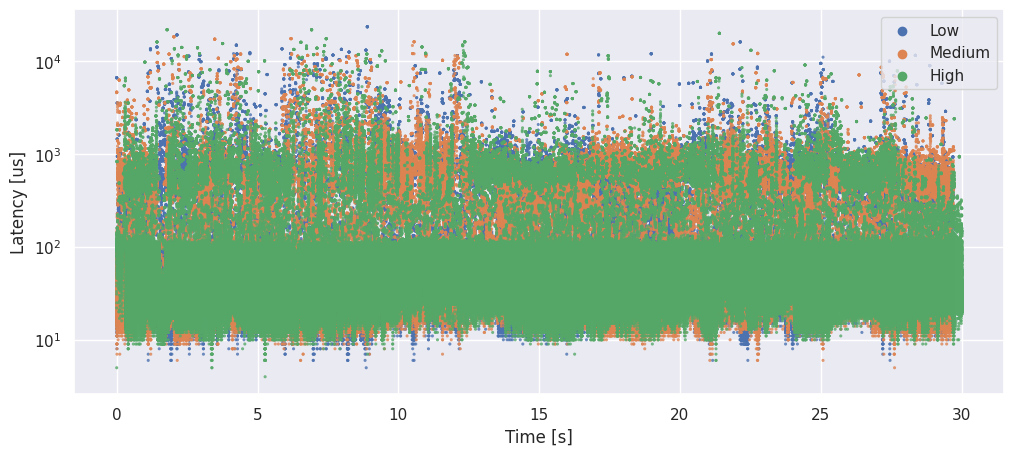
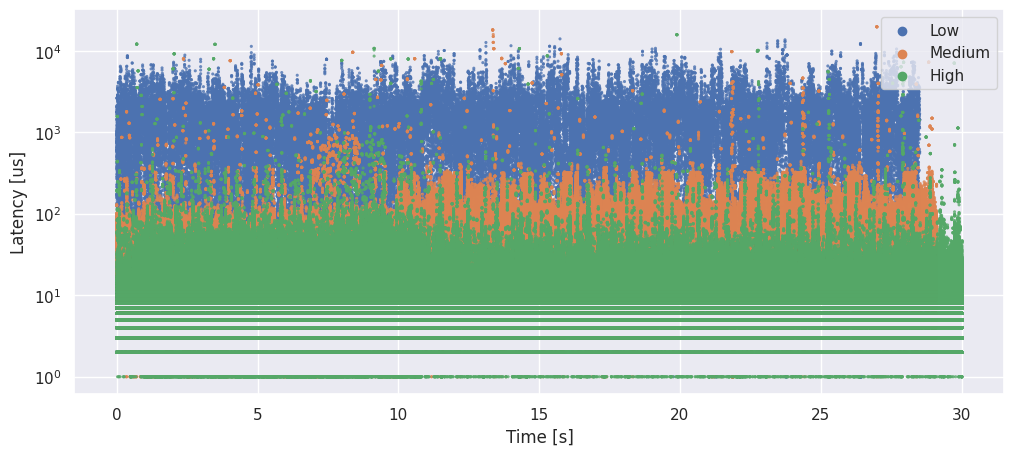
new results

diff --git a/api/benchmarks/dummy/src/dummy_sync.c b/api/benchmarks/dummy/src/dummy_sync.c
@@ -12,12 +12,10 @@
 #include "pifus.h"
 #include "pifus_ip.h"
 #include "pifus_socket.h"
-
-char *tx_filename;
-char *txed_filename;
+#include "csv_writer.h"
 
 size_t total_txed;
-size_t warmup_count = 10000;
+size_t warmup_count = 1000;
 
 void parse_args(int argc, char *argv[], enum pifus_priority *prio) {
     if (argc < 2) {
@@ -53,12 +51,6 @@ void parse_args(int argc, char *argv[], enum pifus_priority *prio) {
     }
 }
 
-void write_csv(char *filename, long value) {
-    FILE *file = fopen(filename, "a");
-    fprintf(file, "%li\n", value);
-    fclose(file);
-}
-
 void dequeue(struct pifus_socket* socket) {
     struct pifus_operation_result result;
     while (pifus_socket_pop_result(socket, &result)) {
@@ -67,12 +59,14 @@ void dequeue(struct pifus_socket* socket) {
             struct timeval tp;
             gettimeofday(&tp, NULL);
             long int us = tp.tv_sec * 1000000 + tp.tv_usec;
-            write_csv(txed_filename, us);
+            txed_stamps[txed_index] = us;
+            txed_index++;
         }
     }
 }
 
 int main(int argc, char *argv[]) {
+    csv_writer_init();
     printf("Starting pifus_dummy...\n");
 
     enum pifus_priority prio = PRIORITY_MEDIUM;
@@ -91,7 +85,8 @@ int main(int argc, char *argv[]) {
 
             if (total_tx > warmup_count) {
                 long int us = tp.tv_sec * 1000000 + tp.tv_usec;
-                write_csv(tx_filename, us);
+                tx_stamps[tx_index] = us;
+                tx_index++;
             }   
         }
 

diff --git a/api/benchmarks/dummy/src/dummy_async.c b/api/benchmarks/dummy/src/dummy_async.c
@@ -12,9 +12,7 @@
 #include "pifus.h"
 #include "pifus_ip.h"
 #include "pifus_socket.h"
-
-char *tx_filename;
-char *txed_filename;
+#include "csv_writer.h"
 
 volatile size_t total_txed;
 size_t warmup_count = 10000;
@@ -53,12 +51,6 @@ void parse_args(int argc, char *argv[], enum pifus_priority *prio) {
     }
 }
 
-void write_csv(char *filename, long value) {
-    FILE *file = fopen(filename, "a");
-    fprintf(file, "%li\n", value);
-    fclose(file);
-}
-
 void callback_func(struct pifus_socket *socket,
                    enum pifus_operation_code op_code) {
     total_txed++;
@@ -66,7 +58,8 @@ void callback_func(struct pifus_socket *socket,
         struct timeval tp;
         gettimeofday(&tp, NULL);
         long int us = tp.tv_sec * 1000000 + tp.tv_usec;
-        write_csv(txed_filename, us);
+        txed_stamps[txed_index] = us;
+        txed_index++;
     }
 
     struct pifus_operation_result result;
@@ -74,6 +67,7 @@ void callback_func(struct pifus_socket *socket,
 }
 
 int main(int argc, char *argv[]) {
+    csv_writer_init();
     printf("Starting pifus_dummy...\n");
 
     enum pifus_priority prio = PRIORITY_MEDIUM;
@@ -95,7 +89,8 @@ int main(int argc, char *argv[]) {
 
             if (total_tx > warmup_count) {
                 long int us = tp.tv_sec * 1000000 + tp.tv_usec;
-                write_csv(tx_filename, us);
+                tx_stamps[tx_index] = us;
+                tx_index++;
             }
         }
     }

diff --git a/api/benchmarks/dummy/src/dummy_single.c b/api/benchmarks/dummy/src/dummy_single.c
@@ -4,17 +4,17 @@
 #include <pthread.h>
 #include <stdio.h>
 #include <stdlib.h>
+#include <stdint.h>
 #include <string.h>
 #include <sys/time.h>
 #include <unistd.h>
+
 
 /* local includes */
 #include "pifus.h"
 #include "pifus_ip.h"
 #include "pifus_socket.h"
-
-char *tx_filename;
-char *txed_filename;
+#include "csv_writer.h"
 
 size_t total_txed;
 size_t warmup_count = 10000;
@@ -53,13 +53,10 @@ void parse_args(int argc, char *argv[], enum pifus_priority *prio) {
     }
 }
 
-void write_csv(char *filename, long value) {
-    FILE *file = fopen(filename, "a");
-    fprintf(file, "%li\n", value);
-    fclose(file);
-}
+
 
 int main(int argc, char *argv[]) {
+    csv_writer_init();
     printf("Starting pifus_dummy...\n");
 
     enum pifus_priority prio = PRIORITY_MEDIUM;
@@ -78,7 +75,8 @@ int main(int argc, char *argv[]) {
 
             if (total_tx > warmup_count) {
                 long int us = tp.tv_sec * 1000000 + tp.tv_usec;
-                write_csv(tx_filename, us);
+                tx_stamps[tx_index] = us;
+                tx_index++;
             }
         }
 
@@ -91,7 +89,8 @@ int main(int argc, char *argv[]) {
             struct timeval tp;
             gettimeofday(&tp, NULL);
             long int us = tp.tv_sec * 1000000 + tp.tv_usec;
-            write_csv(txed_filename, us);
+            txed_stamps[txed_index] = us;
+            txed_index++;
         }
     }
 

diff --git a/api/benchmarks/dummy/src/csv_writer.h b/api/benchmarks/dummy/src/csv_writer.h
@@ -1,0 +1,39 @@
+#ifndef CSV_WRITER_H
+#define CSV_WRITER_H
+
+#include <signal.h>
+#include <stdio.h>
+#include <stdlib.h>
+#include <stdint.h>
+
+char *tx_filename;
+char *txed_filename;
+uint64_t tx_index;
+long int tx_stamps[32000000];
+uint64_t txed_index;
+long int txed_stamps[32000000];
+
+void sig_handler(int signum) {
+    printf("Handling signal, %li tx %li txed\n", tx_index, txed_index);
+    
+    FILE *file = fopen(tx_filename, "a");
+    for (int i = 0; i < tx_index; i++) {
+        fprintf(file, "%li\n", tx_stamps[i]);
+    }
+    fclose(file);
+
+    file = fopen(txed_filename, "a");
+    for (int i = 0; i < txed_index; i++) {
+        fprintf(file, "%li\n", txed_stamps[i]);
+    }
+    fclose(file);
+
+    exit(0);
+}
+
+void csv_writer_init() {
+    signal(SIGTERM, sig_handler);
+}
+
+
+#endif

diff --git a/benchmarks/framework/framework.py b/benchmarks/framework/framework.py
@@ -113,5 +113,8 @@ def ts_to_latency_time_tuple(
 
 def kill_all_processes():
     for proc in _running_processes:
-        proc.kill()
+        proc.terminate()
+
     _running_processes.clear()
+    # make sure all files are written
+    time.sleep(1)
